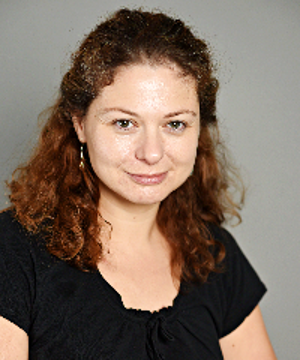
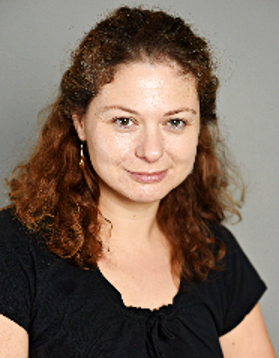
updated keynote speakers

diff --git a/_sass/minima/_layout.scss b/_sass/minima/_layout.scss
@@ -132,8 +132,8 @@
 }
 
 .imageSpeaker {
-  width: auto;
-  height: 200px;
+  width: 250px;
+  height: auto;
   padding-right: 1%;
 }
 
